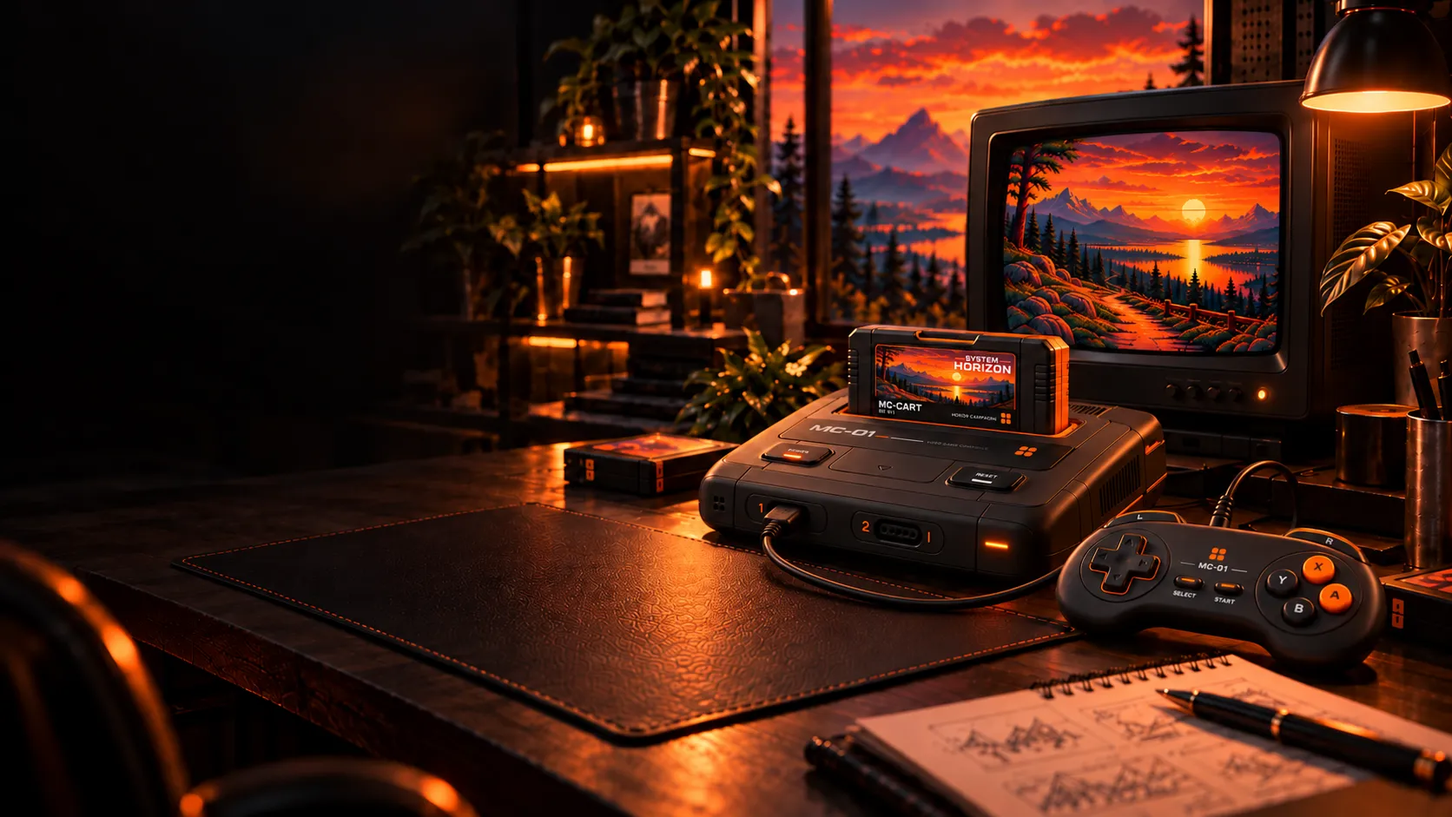
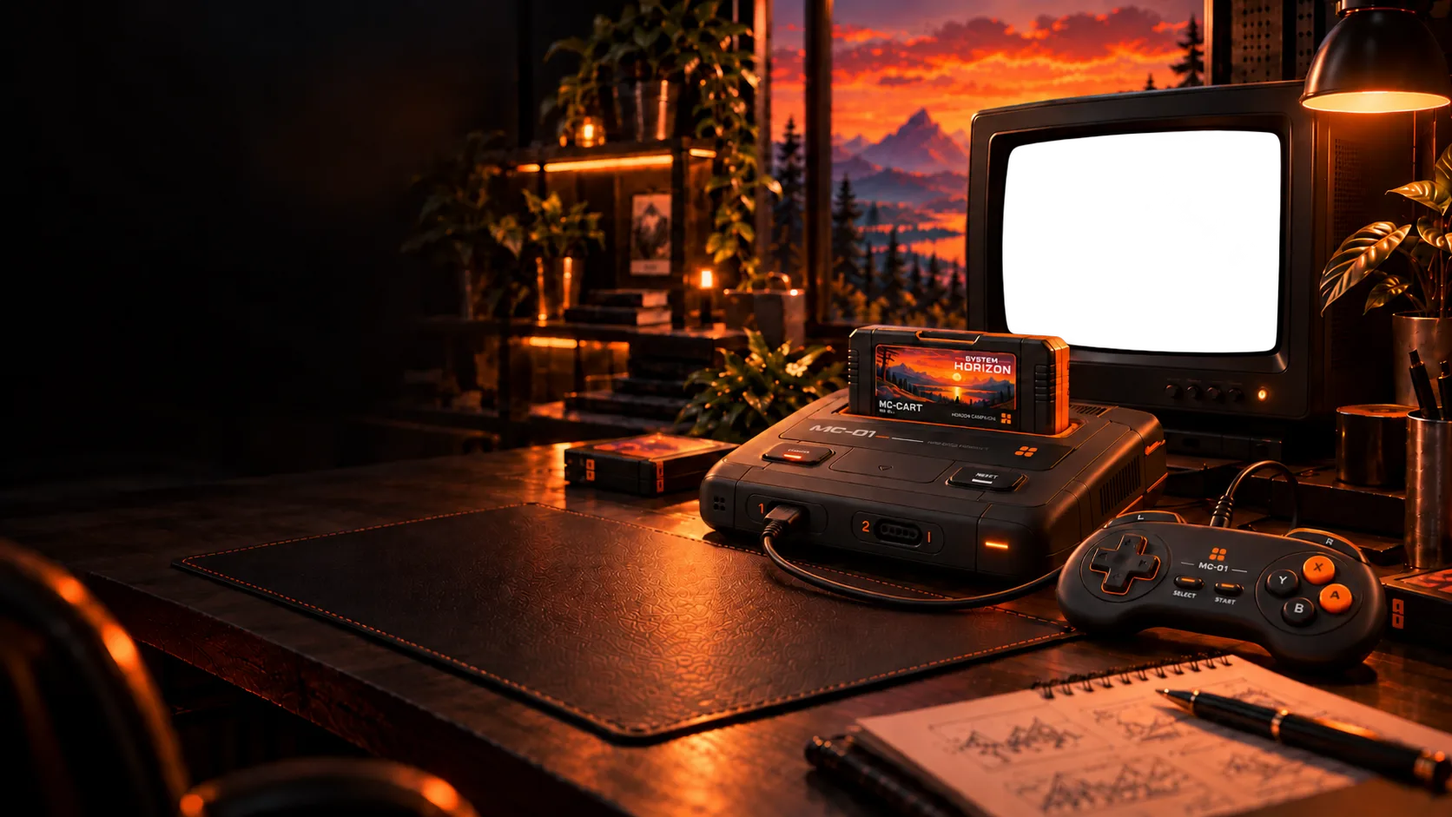
feat(hero,inventory): screens behind a transparent CRT tube (D-080)
- Hero background and the H2 CRT front now have a transparent tube; the
  SYSTEM HORIZON screen (Hero) and the digital glass layer (mc-crt-front)
  sit behind the image, so the real bezel, curvature and cartridge mask
  them. No clip-path, no approximated corner radius.
- Hero screen box: the glass with lateral-only bleed (x 1152-1477,
  y 151-405), keeping the teaser scale and HUD positions unchanged.
- mc-crt-front: digital layer covers the hole + 2 px; the render is on top
  without capturing the pointer.
- Received PNGs had body alpha 240-254; normalized to opaque (edges kept).
  WebP derivatives regenerated (Hero at q 0.82), all the same size or
  smaller. Engine, script and timings of the teaser untouched.
- D-080 in docs/10; docs/21 §9 and contract (§8.2) ask for the tube
  transparent; docs/22, docs/24 and CLAUDE.md in sync.

diff --git a/src/app/features/hero/hero-scene.scss b/src/app/features/hero/hero-scene.scss
@@ -1,5 +1,5 @@
-// Cena da Hero (D-067 + D-068, docs/21 §7, docs/22). Fundo aprovado recortado por faixa e, sobre o
-// vidro do CRT da imagem, a tela do SYSTEM HORIZON. O palco (.stage) tem a proporção da imagem
+// Cena da Hero (D-067 + D-068 + D-080, docs/21 §7–§9, docs/22). Fundo aprovado recortado por faixa
+// e, atrás do tubo transparente do CRT da imagem, a tela do SYSTEM HORIZON. O palco (.stage) tem a proporção da imagem
 // mostrada e é recortado pela moldura como um `object-fit: cover` com `object-position: --pos`;
 // assim a tela usa coordenadas da própria imagem em todas as larguras. As bordas da moldura
 // sempre se dissolvem no fundo da página (nunca um retângulo).
@@ -14,10 +14,10 @@
   // Imagem mostrada: recorte quadrado no mobile (HERO_BACKGROUND.mobile, x 628–1569 da fonte).
   --ar: 1;
   --pos: 50%;
-  // Caixa do vidro do CRT na imagem mostrada (fonte 1672 × 941: x 1157–1473, y 151–405); os
-  // cantos dentro dela (perspectiva da TV) estão em HERO_CRT_GLASS.
-  --sx: 56.22%;
-  --sw: 33.58%;
+  // Caixa da tela na imagem mostrada (fonte 1672 × 941: x 1152–1477, y 151–405; folga só lateral);
+  // os cantos dentro dela (perspectiva da TV) estão em HERO_CRT_GLASS.
+  --sx: 55.69%;
+  --sw: 34.54%;
   // Máscara (local): opaca entre --x1/--x2 e --y1/--y2, dissolvendo até --x0 e as bordas.
   --x0: 0%;
   --x1: 12%;
@@ -30,8 +30,8 @@
     aspect-ratio: 3 / 2;
     --ar: 1672 / 941;
     --pos: 80%;
-    --sx: 69.2%;
-    --sw: 18.9%;
+    --sx: 68.9%;
+    --sw: 19.44%;
   }
 
   // Desktop compacto: ao lado do texto (colunas 7–12), sangrando só à direita.
@@ -79,22 +79,24 @@
   translate: calc(-1 * var(--pos)) 0;
 }
 
+// A imagem fica na frente: o tubo é transparente e o aro, o cartucho e os cantos curvos da foto
+// recortam a tela naturalmente (sem clip-path nem raio).
 img {
+  position: relative;
+  z-index: 1;
   display: block;
   width: 100%;
   height: 100%;
 }
 
-// Tela do SYSTEM HORIZON exatamente sobre o vidro; o cartucho do console cobre o canto inferior
-// esquerdo do vidro na imagem, então a tela é recortada ali.
+// Tela do SYSTEM HORIZON atrás do tubo. Antes do teaser, o tubo mostra o fundo escuro (TV
+// desligada); o teaser entra ligando o CRT.
 .crt {
   position: absolute;
   left: var(--sx);
   top: 16.05%;
   width: var(--sw);
   height: 26.99%;
-  --screen-radius: 4% / 5%;
-  clip-path: polygon(0 0, 100% 0, 100% 100%, 23.4% 100%, 23.4% 90.9%, 0 90.9%);
 }
 
 // Pausar/reproduzir (WCAG 2.2.2): pequeno, no canto inferior do visual, sem competir com os CTAs.

diff --git a/src/app/shared/signature/crt-front/crt-front.ts b/src/app/shared/signature/crt-front/crt-front.ts
@@ -3,14 +3,15 @@ import { ChangeDetectionStrategy, Component, input, output } from '@angular/core
 import { crtVars, MC01_CRT } from '../console/console.geometry';
 
 /**
- * CRT frontal do MC-01 (D-077): o render oficial é a estrutura física; o conteúdo entra por
- * projeção numa camada digital independente, ajustada ao vidro (raio elíptico que acompanha a
- * curvatura). Em `standby` o vidro fica mais escuro (tela em espera, sem competir com o cartucho).
+ * CRT frontal do MC-01 (D-077): o render oficial é a estrutura física; o conteúdo entra numa camada
+ * digital independente ATRÁS do render, visto pelo tubo transparente (D-080): o aro recorta a
+ * curvatura. Em `standby` o vidro fica mais escuro (tela em espera, sem competir com o cartucho).
  * Presentational: quem usa decide semântica, textos e estados; `failed` avisa se o render falhar.
  */
 @Component({
   selector: 'mc-crt-front',
   template: `
+    <div class="glass"><ng-content /></div>
     <img
       class="body"
       [src]="crt.src"
@@ -23,7 +24,6 @@ import { crtVars, MC01_CRT } from '../console/console.geometry';
       decoding="async"
       (error)="failed.emit()"
     />
-    <div class="glass"><ng-content /></div>
   `,
   styleUrl: './crt-front.scss',
   host: { '[style]': 'vars', '[class.is-standby]': 'standby()' },

diff --git a/src/app/features/hero/hero-scene.assets.ts b/src/app/features/hero/hero-scene.assets.ts
@@ -27,13 +27,15 @@ export const HERO_BACKGROUND = {
 };
 
 /**
- * Cantos do vidro do CRT na imagem de fundo, em frações da caixa x 1157–1473, y 151–405 da fonte
- * (posicionada em `hero-scene.scss`). A TV está levemente girada: o lado direito da tela é mais
- * alto (topo 161 → 151, base 400 → 405). A tela do SYSTEM HORIZON é projetada nesses cantos.
+ * Cantos da tela do SYSTEM HORIZON, em frações da caixa x 1152–1477, y 151–405 da fonte
+ * (posicionada em `hero-scene.scss`). O tubo do CRT é transparente na imagem (D-080) e a tela fica
+ * ATRÁS dela. A folga é só lateral (~4,5 px além do vidro), porque a tela 4:3 escala pela altura:
+ * folga vertical ampliaria o teaser e levaria o HUD para baixo do aro. Em cima e embaixo, onde o
+ * tubo é abaulado, sobram até ~3 px de vidro escuro. A TV está levemente girada (lado direito mais alto).
  */
 export const HERO_CRT_GLASS: ScreenQuad = [
-  [0, 0.0394],
+  [0, 0.04],
   [1, 0],
-  [0.9937, 1],
-  [0, 0.9803],
+  [0.994, 1],
+  [0, 0.98],
 ];

diff --git a/src/app/shared/signature/crt-front/crt-front.scss b/src/app/shared/signature/crt-front/crt-front.scss
@@ -1,5 +1,5 @@
-// CRT frontal (D-077). Render físico + camada digital no vidro; efeitos só nas bordas do vidro.
-// `--mc-radius-glass` não se aplica: a curvatura deste vidro é a do render (raio elíptico).
+// CRT frontal (D-077, D-080). Camada digital atrás do render, vista pelo tubo transparente; efeitos
+// só nas bordas do vidro. `--mc-radius-glass` não se aplica: o aro do render recorta a curvatura.
 @use 'mc' as *;
 
 :host {
@@ -9,9 +9,12 @@
 }
 
 .body {
+  position: relative;
+  z-index: 1;
   display: block;
   width: 100%;
   height: auto;
+  pointer-events: none;
 }
 
 .glass {
@@ -25,7 +28,6 @@
   justify-items: center;
   gap: space(3);
   overflow: hidden;
-  border-radius: 6% / 8%;
   container-type: inline-size;
   background: var(--mc-bg);
   transition: background-color 300ms ease-out;
@@ -35,7 +37,6 @@
     content: '';
     position: absolute;
     inset: 0;
-    border-radius: inherit;
     box-shadow: inset 0 0 6cqw var(--mc-material-groove);
     pointer-events: none;
   }

diff --git a/src/app/shared/signature/console/console.geometry.ts b/src/app/shared/signature/console/console.geometry.ts
@@ -35,13 +35,16 @@ export const MC01_CONSOLE = {
 
 export type McConsolePose = keyof typeof MC01_CONSOLE.poses;
 
-/** Vidro do CRT frontal (recorte de 1108 × 1013): área da camada digital. */
+/**
+ * Vidro do CRT frontal (recorte de 1108 × 1013): área da camada digital, ATRÁS do render. O tubo é
+ * transparente no render (D-080); a camada cobre o furo inteiro + 2 px e o aro esconde a sobra.
+ */
 export const MC01_CRT = {
   src: `${A}crt-front-1108.webp`,
   srcset: `${A}crt-front-560.webp 560w, ${A}crt-front-800.webp 800w, ${A}crt-front-1108.webp 1108w`,
   width: 1108,
   height: 1013,
-  glass: { left: 121, top: 120, width: 862, height: 656 },
+  glass: { left: 118, top: 117, width: 868, height: 662 },
 } as const;
 
 const pct = (value: number, total: number) => `${(value / total) * 100}%`;

diff --git a/CLAUDE.md b/CLAUDE.md
@@ -100,7 +100,7 @@ Mantenha os docs em sincronia com o código. Ao concluir itens do roadmap, atual
 - `src/app/data/`: conteúdo estático tipado (skills, tags, projetos, perfil, links sociais), com textos humanos em `Localized<T>` (ver `docs/07`).
 - i18n (D-020): `src/app/core/i18n/`. **A URL é a fonte da verdade** (`/` pt-BR, `/en` en); trocar idioma = navegar. Componentes usam `inject(LocaleService).ui` (dicionário tipado) e `pick()` para conteúdo `Localized`. Todo texto novo entra em `ui.pt-BR.ts` **e** `ui.en.ts`. Sem bibliotecas de i18n; sem localStorage sobrepondo a URL.
 - `src/app/shared/ui/`: primitivos do design system: `mc-icon` (16/20/24; sem `label` = decorativo), `a[mcAction]`/`button[mcAction]` (`primary` no máximo 1 por região, `secondary`, `text`; navegação = `<a>`, ação = `<button>`), `mc-chip` (warm/cool, informativo), `mc-status` (active/in-progress, sempre com texto), `mc-section-header`. Reusar antes de criar.
-- `src/app/shared/signature/`: componentes autorais: `mc-player-card` (UI digital, único com cantos de mira, sem métricas inventadas), `mc-cart` (objeto físico, shells dark/light/orange/cool, `role="img"`, não clicável no componente; o Inventory usa clique como atalho de ponteiro do botão "Inserir cartucho", D-058), `mc-project-summary` (nome, descrição, até 2 chips), `mc-crt-frame` (base visual do CRT, presentational, sem contexto nem textos) e `mc-crt-project-viewer` (frame + região rotulada + "INSERT CARTRIDGE"; efeitos atrás do conteúdo, nunca corta; fora do Inventory desde D-077), `mc-console` (MC-01 em três camadas oficiais, geometria do console em `console.geometry.ts`, só transform) e `mc-crt-front` (CRT frontal com camada digital no vidro). Objetos físicos usam tokens `--mc-material-*` e `--mc-shadow-object`; UI digital não. Três níveis de token: primitive → semantic UI → physical material; **material tokens não criam uma segunda paleta**. `--mc-radius-glass` só no vidro do CRT.
+- `src/app/shared/signature/`: componentes autorais: `mc-player-card` (UI digital, único com cantos de mira, sem métricas inventadas), `mc-cart` (objeto físico, shells dark/light/orange/cool, `role="img"`, não clicável no componente; o Inventory usa clique como atalho de ponteiro do botão "Inserir cartucho", D-058), `mc-project-summary` (nome, descrição, até 2 chips), `mc-crt-frame` (base visual do CRT, presentational, sem contexto nem textos) e `mc-crt-project-viewer` (frame + região rotulada + "INSERT CARTRIDGE"; efeitos atrás do conteúdo, nunca corta; fora do Inventory desde D-077), `mc-console` (MC-01 em três camadas oficiais, geometria do console em `console.geometry.ts`, só transform) e `mc-crt-front` (CRT frontal com tubo transparente e camada digital atrás do render, D-080). Objetos físicos usam tokens `--mc-material-*` e `--mc-shadow-object`; UI digital não. Três níveis de token: primitive → semantic UI → physical material; **material tokens não criam uma segunda paleta**. `--mc-radius-glass` só no vidro do CRT.
 - CSS: orçamento de estilo por componente → enxugar antes de aumentar (D-035). Abreviações utilizadas para otimização de CSS/SCSS devem permanecer locais ao componente e documentadas. Elas não devem reduzir a clareza de APIs públicas, tokens do Design System ou contratos compartilhados.
 - Showcase dev-only: `npm start` → `/dev/design-system` (D-028). Nunca registrar rotas de dev em produção.
 - `src/app/core/`: infraestrutura transversal (boot, konami listener). `src/app/shared/`: componentes reutilizáveis (só criar quando um elemento se repetir).
@@ -126,7 +126,7 @@ Deploy: `.github/workflows/deploy-pages.yml`, **disparo manual** (`workflow_disp
 - FASE 0 ✅ · FASE 1 ✅ (Concept 03 híbrido).
 - FASE 2 ✅: MC Design System Core (D-030) e **Sprint 4 — Signature Components: APPROVED** (D-036).
 - **FASE 3 — Core Experience: encerrada (D-048).** Itens de interação (CRT Viewer na Home, seleção/inserção de cartucho, transição para o CRT, motion) foram para a FASE 5. **Modo autônomo (D-053):** BUILDER + REVIEWER independente por etapa, branch `feat/autonomous-site-completion`, sem merge em `main` e sem deploy até a revisão final do Eduardo. **Home Slice 05 — Final Checkpoint: APPROVED** (D-052, D-054, `docs/17-home-slice-05.md`): Save Point Editorial (SAVE COMPLETE, frase em `PlayerProfile.closing`, GitHub/LinkedIn secondary) + footer da Home (`core/layout/site-footer/`, renderizado pela `HomePage` fora do `<main>`, não no shell); ambos FROZEN. **Home Slice 06 — Current Main Quest** (D-055, `docs/18-home-slice-06.md`): Quest Briefing com `mc-status` IN PROGRESS; conteúdo **MOCK** (`current-quest.data.development.ts`, id `mock-current-quest`, "Campanha de exemplo"), produção `null` e seção não renderizada; **o MOCK não é fato sobre o Eduardo nem descreve a Comunidade On**; 06-C editorial pendente. **Home Slice 07 — Side Quests** (D-056, `docs/19-home-slice-07.md`): Side Quest Log; conteúdo **MOCK** (`side-quests.data.development.ts`, ids `mock-side-quest-*`), produção vazia; **o MOCK não é fato sobre o Eduardo**; Paco (MC-002) segue fora do runtime; 07-C editorial pendente. **Estado em 2026-10-11 (D-062):** rodada autônoma concluída na branch `feat/autonomous-site-completion` (sem merge/deploy); FASES 4 (estrutura), 5 e 8 concluídas; pendências = conteúdo real, FASE 6, Progress, prerender, monograma e publicação, todas do Eduardo. **Fase de referência: FASE 4 — Career Content. Histórico do Slice 03 — Campaign Log** (`docs/15-home-slice-03.md`, D-048): plano e direção **A + C (Checkpoint Log Editorial)** aprovados; `CampaignLogKind = origin | checkpoint | current` (rótulos NEW GAME / CHECKPOINT / CAMPANHA ATUAL vêm da UI); **03-B — Campaign Log visual APPROVED e congelado (D-050)**; estado: STRUCTURE / VISUAL approved · **EDITORIAL CONTENT pending factual review** (03-C, não bloqueia o resto da Home). Summary ideal ~120–140 caracteres (regra editorial, sem line-clamp); entrada current em aberto exibe DESDE / SINCE. **Conteúdo real canônico (D-074):** CHAPTER 00 — ORIGIN (c. 1991, D-070), CHAPTER 01 — DO CONTROLE AO CÓDIGO (FATEC Americana, 2013–2017, D-071) e CHAPTER 02 — DO CÓDIGO AO PRODUTO (2018–atual: ScoutEvo 2018, EOS 2019, Axia c. 2020/2021, Comunidade ON desde 2025; em aberto com CURRENT QUEST — EM ANDAMENTO + lema; D-072/D-073), aprovados pelo Eduardo; `CAMPAIGN_LOG_CHAPTERS` (`campaign-log.data.ts`) é a mesma fonte em todos os ambientes, sem `fileReplacements` nem `isDevMode()`; a linha profissional MOCK (D-049) e o modelo `CampaignLogEntry` foram **aposentados**; `docs/15` §13–§17; nenhuma data inferida; grafia pública "Comunidade ON"; Jornada no header ainda pendente. **Home Slice 04 — Achievements** (`docs/16-home-slice-04.md`, D-051): plano e direção **A + B (Achievement Record Panel)** aprovados; 04-A com **MOCK** (`achievements.data.development.ts`, ids `mock-achievement-*`); **04-B visual APPROVED e FROZEN** (inclui 2 itens em 8/12 no xl); 04-C editorial pendente; produção vazia; seção só com **≥ 2** achievements (`achievements.rules.ts`); `evidence` obrigatório; nunca repetir outras seções para completar itens; Comunidade On não é achievement. **O MOCK não é fato sobre o Eduardo.** Commits locais até a revisão. Histórico: Home Slice 01 (`docs/12-home-slice-01.md`, D-037): **HOME SLICE 01 — APPROVED** (D-039). **Não modificar Header, Hero ou Player Status aprovados sem regressão justificada e relatada.** Slice 02 (**Skill Loadout** + Project Inventory, D-040): plano aprovado (`docs/13-home-slice-02.md`), 02-0 aprovado (D-041, D-042, `docs/14`); 02-A concluído (`SKILL_LOADOUT`, só skills aprovadas); **02-B Skill Loadout APPROVED e congelado** (`features/skill-loadout/`, D-043; não alterar salvo regressão); **02-C APPROVED** (`Project`, `TAGS`, `publishedProjects`/`inventoryProjects`, `features/project-inventory/`, D-044; runtime só com projetos aprovados); **02-C.5 APPROVED** (artwork System Horizon Refined do MC-001, D-045/D-046; **evoluído em D-065**: MC-001 oficial = renders `front` (Inventory) e `threeQuarter` (product shot) + artwork SYSTEM HORIZON em `public/assets/cartridges/mc-001/`, shell grafite com acentos laranja, fontes PNG em `design/source/mc-cart/`; o glifo de quatro quadrados é *system/hardware glyph*, não logo; arte decorativa dentro do MC-CART, alt guardado no modelo; artworks seguem a gramática de família, não um template); **Project Inventory = H2, Physical Cartridge Experience** (D-075–D-078, `docs/24` §17; **APPROVED / consolidado**, sem deploy): o MC-CART é inserido no MC-01 em camadas (`mc-console`, só transform) e o CRT frontal (`mc-crt-front`) mostra a arte oficial e o teaser sob demanda; case fora do vidro; estado de domínio único em `inventory.machine.ts`; MC-001 = SYSTEM HORIZON (Modo Campanha é o portfólio); a carcaça do encaixe físico (`renders.console`) é a referência oficial do MC-001 na experiência interativa e a interface pública nunca mostra duas identidades do cartucho (D-078; `front`/`threeQuarter` ficam como referência); tipo EXPERIÊNCIA NARRATIVA; MC-01 canônico do Inventory = console frontal do H2 (Hero: harmonização pendente); a grade + case no CRT da FASE 5 (D-058, `docs/20-game-feel-01.md`) foi substituída. Boot / Intro na tela do CRT do Hero (D-059) removido em D-067 e **retomado no teaser SYSTEM HORIZON (D-068)**; strings `ui.boot` removidas. **FASE 5 concluída** (Progress sem definição, decisão do Eduardo). **FASE 8 (D-060):** skip link no shell, `scroll-padding-top` com a altura real do header (`--mc-header-block`), SEO bilíngue no `LocaleService` (hreflang, canonical, Open Graph), `robots.txt`; prerender pendente de decisão. **FASE 6 (Secrets) bloqueada por decisão do Eduardo** (efeitos exigem aprovação, `docs/08`). 02-D e 02-E absorvidos; **02-F APPROVED: HOME SLICE 02 — APPROVED** (D-047). Skill Loadout, Project Inventory, MC-001 e artwork congelados. **A Home só renderiza seções construídas** (produção: Hero, Player Status, Skill Loadout, Project Inventory, Campaign Log, Final Checkpoint + footer); as demais entram com seus slices, sem placeholder público; seções com MOCK só em dev. **Nav só com destinos existentes** (Sobre / Projetos / Contato → `#final-checkpoint`; Jornada → `#campaign-log` pendente: o conteúdo real já está publicado, D-074); no mobile (< 768 px) a nav é a segunda linha do header (D-057). **FASE 4: estrutura concluída (D-057)**; conteúdo editorial pendente (04-C, 06-C, 07-C; 03-C aprovado, D-074). GitHub Pages: sem deploy até decisão separada; próximo Slice só com autorização. Não implementar antes da aprovação do conteúdo. Projeto só renderiza com `publication: 'approved'` explícito; skill só com `status: 'approved'`; serial global `MC-NNN` (origem é campo separado); nenhum aprovador interno presumido; nada interno da Comunidade On publicado. **Repositório público:** nunca colocar no runtime ou em docs nomes de aprovadores, fluxos internos ou dados de revisão (D-042). Tags: catálogo com tone fixo por tag. "PROJECT ARTWORK" nunca no Inventory público (checkpoint 02-C.5). Player Status: STATUS só no Player Card, nunca no Section Header (D-039); sem "Sobre a jornada" até haver texto aprovado. Âncoras: offset do header no `ViewportScroller` (`app.config.ts`).
-- Conteúdo humano em `src/app/data/profile.data.ts` (`PlayerProfile`, `Localized`); o dicionário de UI guarda só rótulos. Header em `src/app/core/layout/site-header/`; Hero em `src/app/features/hero/` (fundo: a imagem aprovada do setup MC-01 usada direto num `<picture>` decorativo, com recorte próprio no mobile; config em `hero-scene.assets.ts`; sem cena montada; D-067, `docs/21` §7; **provisória** até a nova arte externa, D-079: contrato em `docs/21` §8.2, não substituir antes da arte, nunca gerar imagens nem recompor os PNGs oficiais sobre a foto; Pixelify Sans com preload no `index.html`, fontes sem hash via `outputHashing: "bundles"`). Cena em `hero-scene`: sobre o vidro do CRT da imagem roda o **attract mode do SYSTEM HORIZON** (D-068, `docs/22`), **base técnica APPROVED / FROZEN** (engine, roteiro, timings, pause/play, 3 voltas, reduced motion, responsivo, arquitetura: não alterar sem regressão objetiva); **cenário final integrado** (4 camadas, paleta única de 16 cores, `sh-palette.gpl`); personagem **provisório** (quadros aprovados reduzidos 2:1, quadro 16 × 24, `docs/22` §13; versão definitiva pendente); pickups, HUD e MC-CART em pixel art gerada no repositório (`design/source/system-horizon/pixel/build-pickups.mjs`, `docs/22` §14); tudo aguardando validação conjunta do Eduardo; arte nova sempre se adapta ao contrato de `docs/22` §4 (mesmas dimensões, pivots e layout; validar cenário + personagem antes de pickups e MC-CART, §11); System Horizon jogável fora de escopo; engine em `src/app/system-horizon/` (TypeScript puro: engine/world/scenes/control/content); textos de sistema em inglês nos dois idiomas via `ui.systemHorizon`; pausa discreta + parada após 3 voltas; reduced motion/pausado = quadro-chave.
+- Conteúdo humano em `src/app/data/profile.data.ts` (`PlayerProfile`, `Localized`); o dicionário de UI guarda só rótulos. Header em `src/app/core/layout/site-header/`; Hero em `src/app/features/hero/` (fundo: a imagem aprovada do setup MC-01 usada direto num `<picture>` decorativo, com recorte próprio no mobile; config em `hero-scene.assets.ts`; sem cena montada; D-067, `docs/21` §7; **provisória** até a nova arte externa; tubo do CRT transparente com o teaser atrás da imagem, folga só lateral, sem clip-path, D-080; D-079: contrato em `docs/21` §8.2, não substituir antes da arte, nunca gerar imagens nem recompor os PNGs oficiais sobre a foto; Pixelify Sans com preload no `index.html`, fontes sem hash via `outputHashing: "bundles"`). Cena em `hero-scene`: sobre o vidro do CRT da imagem roda o **attract mode do SYSTEM HORIZON** (D-068, `docs/22`), **base técnica APPROVED / FROZEN** (engine, roteiro, timings, pause/play, 3 voltas, reduced motion, responsivo, arquitetura: não alterar sem regressão objetiva); **cenário final integrado** (4 camadas, paleta única de 16 cores, `sh-palette.gpl`); personagem **provisório** (quadros aprovados reduzidos 2:1, quadro 16 × 24, `docs/22` §13; versão definitiva pendente); pickups, HUD e MC-CART em pixel art gerada no repositório (`design/source/system-horizon/pixel/build-pickups.mjs`, `docs/22` §14); tudo aguardando validação conjunta do Eduardo; arte nova sempre se adapta ao contrato de `docs/22` §4 (mesmas dimensões, pivots e layout; validar cenário + personagem antes de pickups e MC-CART, §11); System Horizon jogável fora de escopo; engine em `src/app/system-horizon/` (TypeScript puro: engine/world/scenes/control/content); textos de sistema em inglês nos dois idiomas via `ui.systemHorizon`; pausa discreta + parada após 3 voltas; reduced motion/pausado = quadro-chave.
 - Fases: 0 Foundation · 1 Visual Concept · 2 Design System · 3 Core Experience · 4 Career Content · 5 Game Feel · 6 Secrets · 7 Content · 8 Quality · 9 Release. Detalhes em `docs/09-roadmap.md`.
 
 ## Fluxo de trabalho

diff --git a/docs/21-hero-refinement.md b/docs/21-hero-refinement.md
@@ -232,9 +232,10 @@ Zonas:
 - **Modelo:** o CRT do H2 (`crt-front.png`) em perspectiva. Sem outro modelo de TV, sem grade de ventilação lateral e sem botões diferentes.
 - **Vidro, posição:** de preferência **exatamente** na caixa x 1157–1473 · y 151–405 (316 × 254, ~1,24 : 1), com os cantos de `HERO_CRT_GLASS` e tolerância de ±2 px no 1× (±4 px no 2×).
 - **Vidro, se a identidade pedir outra proporção:** a tela do `crt-front` é mais larga (~1,33–1,38 : 1) e tem cantos mais arredondados. A proporção do vidro **na foto** pode ficar entre 1,24 e **1,333 (4 : 3)**, com o remedimento de K. Acima de 4 : 3, a tela do teaser (4 : 3, cobrindo pela altura) deixa faixas da foto nas laterais. Cobrir pela largura cortaria o HUD (y 4–18, `docs/22` §4.0) e mudaria o teaser congelado. Com o leve giro, a tela oficial fica dentro desse limite.
-- **Nada na frente do vidro:** o topo do MC-CART fica abaixo da borda inferior do vidro. Hoje o cartucho cobre x 1157–1232 · y ≈ 382–405 (o `clip-path` recorta em 90,9% da altura), o que obriga um recorte na tela do teaser.
-- **Conteúdo da tela:** o cenário do SYSTEM HORIZON (pôr do sol, montanhas, lago, trilha), em pixel art e sem texto, HUD ou personagem. Ele aparece antes de o teaser carregar e quando o teaser falha.
-- **Reflexos:** o teaser cobre o vidro inteiro, então reflexos e brilho ficam no aro e no gabinete, nunca dentro do vidro.
+- **Tubo transparente (D-080, §9):** o mestre vem com o vidro **transparente** (alfa 0 dentro do tubo, borda suavizada de 1–2 px e alfa 255 em todo o resto, nunca 240–254). A tela do teaser fica atrás da imagem, e o aro recorta a curvatura.
+- **Na frente do vidro:** o cartucho pode cobrir o canto inferior esquerdo, como hoje (x 1157–1232 · y ≈ 382–405): a imagem recorta a tela sozinha. Não cobrir o topo (HUD, y 4–18 nativo) nem o centro.
+- **Conteúdo da tela:** como o tubo é transparente, a tela da foto não aparece no site; antes do teaser, o tubo mostra a TV desligada. Uma versão opaca, com o cenário do SYSTEM HORIZON na tela (pôr do sol, montanhas, lago, trilha, sem texto, HUD ou personagem), é opcional e serve de referência.
+- **Reflexos:** ficam no aro e no gabinete, nunca dentro do vidro (que é transparente).
 
 #### H. Identidade oficial: textos permitidos
 
@@ -269,18 +270,17 @@ Textos pequenos demais para ler no tamanho final podem virar marcas lisas, nunca
 
 #### K. Coordenadas que dependem da imagem
 
-Se o vidro ficar na caixa atual, dentro da tolerância de G, **nada é remedido**: só os quatro cantos são conferidos. Se mudar, estes valores precisam ser remedidos (fonte W × H = 1672 × 941; vidro de x0 a x1 e de y0 a y1):
+Se o vidro ficar na caixa atual, dentro da tolerância de G, **nada é remedido**: só os quatro cantos e o furo são conferidos. Se mudar, estes valores precisam ser remedidos (fonte W × H = 1672 × 941; vidro de x0 a x1 e de y0 a y1). Desde D-080 (§9), a caixa da tela é o vidro com **folga só lateral**, até cobrir o furo: x0 e x1 recuam ~4,5 px, y0 e y1 ficam no vidro. Uma folga vertical ampliaria o teaser e levaria o HUD para baixo do aro.
 
-| Valor                                               | Onde                     | Fórmula                                                                                                   |
-| --------------------------------------------------- | ------------------------ | --------------------------------------------------------------------------------------------------------- |
-| `HERO_CRT_GLASS` (4 cantos) e o comentário da caixa | `hero-scene.assets.ts`   | cantos do vidro em frações da caixa (x0–x1, y0–y1)                                                        |
-| `top` / `height` da `.crt`                          | `hero-scene.scss`        | y0 / H · (y1 − y0) / H (hoje 16,05% / 26,99%)                                                             |
-| `--sx` / `--sw` (≥ 768)                             | `hero-scene.scss`        | x0 / W · (x1 − x0) / W (hoje 69,2% / 18,9%)                                                               |
-| `--sx` / `--sw` (mobile)                            | `hero-scene.scss`        | (x0 − m0) / (m1 − m0) · (x1 − x0) / (m1 − m0), recorte mobile de m0 a m1 (hoje 628–1569: 56,22% / 33,58%) |
-| `clip-path` da `.crt`                               | `hero-scene.scss`        | área do vidro coberta pelo cartucho; sem sobreposição, o recorte sai                                      |
-| `--screen-radius`                                   | `hero-scene.scss`        | raio dos cantos do vidro em % da caixa (hoje 4% / 5%)                                                     |
-| Área segura do teaser                               | `docs/22` §4.0           | proporção do vidro (1,24 a 1,333): em 1,24 : 1 cortam-se ~6 px de cada lado; em 4 : 3, nada               |
-| Recorte mobile                                      | `HERO_BACKGROUND.mobile` | x do quadrado que contém MC-01, vidro e controle                                                          |
+| Valor                                               | Onde                     | Fórmula                                                                                                      |
+| --------------------------------------------------- | ------------------------ | ------------------------------------------------------------------------------------------------------------ |
+| `HERO_CRT_GLASS` (4 cantos) e o comentário da caixa | `hero-scene.assets.ts`   | cantos do vidro em frações da caixa (x0–x1, y0–y1)                                                           |
+| `top` / `height` da `.crt`                          | `hero-scene.scss`        | y0 / H · (y1 − y0) / H (hoje 16,05% / 26,99%, vidro y 151–405)                                               |
+| `--sx` / `--sw` (≥ 768)                             | `hero-scene.scss`        | x0 / W · (x1 − x0) / W (hoje 68,9% / 19,44%, caixa x 1152–1477)                                              |
+| `--sx` / `--sw` (mobile)                            | `hero-scene.scss`        | (x0 − m0) / (m1 − m0) · (x1 − x0) / (m1 − m0), recorte mobile de m0 a m1 (hoje 628–1569: 55,69% / 34,54%)    |
+| Furo coberto                                        | medição do alfa (< 128)  | nenhum pixel do furo fora da caixa nas laterais; em cima e embaixo, sobra de ≤ 3 px aceitável (vidro escuro) |
+| Área segura do teaser                               | `docs/22` §4.0           | proporção do vidro (1,24 a 1,333): em 1,24 : 1 cortam-se ~6 px de cada lado; em 4 : 3, nada                  |
+| Recorte mobile                                      | `HERO_BACKGROUND.mobile` | x do quadrado que contém MC-01, vidro e controle                                                             |
 
 A engine, o roteiro, os timings e a câmera do teaser não mudam em nenhum caso.
 
@@ -323,7 +323,7 @@ Gerados a partir do mestre:
 >
 > Real-world scale: the CRT cabinet is about 1.27× the console width; the cartridge is about 0.56× the console width.
 >
-> **CRT and screen.** The CRT is nearly frontal. It is the official model only: no side ventilation grille, no other knobs. Its glass sits at x 2314–2946, y 302–810, with the right side slightly taller (about 6%), and its aspect ratio stays between 1.24:1 and 4:3. Nothing overlaps it: the top of the cartridge stays below the bottom edge of the glass. Keep reflections and glow on the bezel and cabinet, not inside the glass. The screen shows the SYSTEM HORIZON pixel-art sunset landscape (lake, mountains, trail) with no text.
+> **CRT and screen.** The CRT is nearly frontal. It is the official model only: no side ventilation grille, no other knobs. Its glass sits at x 2314–2946, y 302–810, with the right side slightly taller (about 6%), and its aspect ratio stays between 1.24:1 and 4:3. Deliver the glass (the whole tube) fully transparent: alpha 0 inside the tube, a 1–2 px antialiased edge, and alpha 255 everywhere else (not 240–254). The cartridge may overlap the lower-left corner of the glass; nothing may cover its top or center. Keep reflections and glow on the bezel and cabinet, not inside the glass. Optionally, also deliver an opaque version whose screen shows the SYSTEM HORIZON pixel-art sunset landscape (lake, mountains, trail) with no text.
 >
 > **Light and materials.** Warm sunset and lamp light, orange rim light, matte graphite plastic, deep shadows. Orange POWER LED and white RESET LED on the console. No neon.
 >
@@ -337,3 +337,24 @@ Gerados a partir do mestre:
 > - Controller: MC-01, SELECT, START, L, R, X, Y, A, B.
 >
 > **Exclude.** Any other text or pseudo-text, other cartridges or boxes, brand logos or real console designs, people, a keyboard or mouse, watermarks.
+
+## 9. Tubo transparente: telas atrás da imagem (D-080)
+
+A pedido do Eduardo, o tubo do CRT ficou **transparente** nas imagens, e as telas digitais passaram para **trás** delas. O aro, a curvatura e o cartucho da foto recortam a tela naturalmente. Com isso, não há mais `clip-path` para o cartucho nem raio aproximado nos cantos.
+
+- **Hero:** `design/source/hero/hero-background.png` é a mesma foto aprovada (provisória, §8), agora com o tubo transparente. O furo cobre x 1154–1474 · y 150–405.
+  - Tela do SYSTEM HORIZON na caixa x 1152–1477 · y 151–405, com o quadrilátero da TV (`HERO_CRT_GLASS`). A folga é só lateral: a tela 4:3 escala pela altura, então uma folga vertical ampliaria o teaser e levaria o HUD para baixo do aro (testado e descartado).
+  - Em cima e embaixo, onde o tubo é abaulado, sobram até ~3 px de vidro escuro, lidos como a borda escura do tubo.
+  - Antes do teaser (~1 s depois do `load`), o tubo mostra a **TV desligada**, e o teaser entra ligando o CRT. Antes, a tela da foto mostrava a arte. Se o teaser falhar, a TV fica desligada.
+- **Project Inventory (`mc-crt-front`):** `design/source/mc-01/crt-front.png` é um render novo do mesmo CRT do H2, com o tubo transparente. A identidade é a mesma (glifo, rótulos, LED); o aro laranja ficou mais forte, e os reflexos quentes do vidro saíram junto com o tubo.
+  - A camada digital (arte, teaser, carregamento, falha) fica atrás do render, cobrindo o furo + 2 px (118, 117, 868 × 662 no recorte de 1108 × 1013). O render não captura o ponteiro.
+  - Sem o raio 6% / 8%. No **standby**, o vidro agora é preto liso (antes, cinza com os reflexos do render).
+- **Alfa:** os PNGs recebidos tinham o corpo com alfa 240–254 (a foto inteira 1–4% transparente). Foi normalizado com `alfa' = min(255, alfa × 255 / 240)`: corpo opaco, bordas suaves do tubo e da silhueta preservadas, RGB intacto.
+- **Derivados:**
+  - Hero: WebP com alfa, qualidade 0,82 (antes 0,86, para compensar o canal alfa), em `background-{640,960,1280,1672}` = 32 / 58 / 87 / 128 KB e `background-mobile-{480,800}` = 39 / 78 KB, todos menores que antes.
+  - CRT: `crt-front-{560,800,1108}` = 30 / 57 / 103 KB.
+- **Medições:**
+  - Lighthouse inalterado: mobile 82, desktop 99, LCP 4045 / 900 ms, acessibilidade 100, CLS 0 / 0,0003.
+  - Testes e builds passam.
+  - HUD, legendas e quadro-chave nas mesmas posições.
+- **Próxima arte:** o contrato (§8.2 G, K e N) pede o mestre já com o tubo transparente.

diff --git a/docs/24-project-inventory-experience.md b/docs/24-project-inventory-experience.md
@@ -212,7 +212,7 @@ Testes com entrada real (Tab, Enter, Space, clique e toque), reduced motion emul
 - **Ocultação:** a borda superior da frente (y = 434) é opaca em toda a largura do slot (alfa 253–254). A frente esconde de verdade a base do cartucho: 66 px quando encaixado. Não foi preciso `clip-path` nem `mask-image`.
 - **Conferência:** o console montado, com o cartucho encaixado e renderizado a 1254 px, comparado à referência dá diferença média de 2 a 5 níveis (de 255) por região, efeito da compressão WebP. Visualmente idêntico (`scratchpad/inventory/h2/h2-assembly-seated-1254.png`).
 - **Halos:** 0,8 a 1,4% dos pixels são semitransparentes, só nas bordas. Nenhum halo visível sobre o fundo escuro.
-- **CRT:** o vidro está em (121, 120, 862 × 656) no recorte, ≈ 4:3. A camada digital (arte, teaser, carregamento, fallback) fica num elemento próprio sobre o vidro, com raio elíptico (6% / 8%) que acompanha a curvatura do render.
+- **CRT:** o vidro está em (121, 120, 862 × 656) no recorte, ≈ 4:3. A camada digital (arte, teaser, carregamento, fallback) fica num elemento próprio sobre o vidro, com raio elíptico (6% / 8%) que acompanha a curvatura do render. **Atualizado em D-080:** o render tem o tubo transparente; a camada fica **atrás** dele, cobrindo o furo + 2 px (118, 117, 868 × 662), sem raio. O aro recorta a curvatura.
 
 ### 16.2 Sistema de camadas (reutilizável)
 
@@ -336,7 +336,7 @@ Testes com entrada real (Tab, Enter, Space, clique e toque), reduced motion emul
 | Inventory         | `features/project-inventory/project-inventory-section.*` | Compõe editorial, `mc-console`, `mc-crt-front`, controles e case; agenda as transições (620 / 450 / 600 ms); foco, rolagem e anúncios.                                      |
 | Case              | `features/project-inventory/project-case.*`              | Fora do vidro: minha contribuição, stack, aprendizados, evidências.                                                                                                         |
 | MC-01 físico      | `shared/signature/console/`                              | Três camadas oficiais com geometria do console (`console.geometry.ts`); só `transform`. Decorativo; avisa falha de camada.                                                  |
-| CRT frontal       | `shared/signature/crt-front/`                            | Render + camada digital no vidro; `standby` escurece o vidro. Avisa falha.                                                                                                  |
+| CRT frontal       | `shared/signature/crt-front/`                            | Render na frente (tubo transparente, D-080) + camada digital atrás; `standby` = vidro escuro. Avisa falha.                                                                  |
 | Projetos          | `INVENTORY_PROJECTS`                                     | Produção: `inventoryProjects`. Laboratório e testes: fixtures isoladas.                                                                                                     |
 
 ### 17.2 Estados (um único estado decide tudo)

diff --git a/docs/10-decisions.md b/docs/10-decisions.md
@@ -961,3 +961,24 @@ Status possíveis: `Aceita` · `Proposta` · `Substituída` · `Rejeitada`
 
   O resíduo leve das scanlines perto de 3 px por faixa fica registrado em §8.1. O botão de pausa ainda pode anunciar "Pausar" ~0,9 s antes do movimento em rede lenta, enquanto o chunk e a arte carregam; a correção completa exigiria um sinal de "pronto" da tela do teaser congelado.
 - **Status:** etapas 1 e 2 concluídas na branch `feat/hero-refinement`. A substituição da imagem aguarda a nova arte do Eduardo. Sem merge e sem deploy.
+
+## D-080 — Tubo transparente: telas atrás da imagem (Hero e CRT do Inventory)
+
+- **Data:** 2026-10-18
+- **Pedido do Eduardo:** usar imagens com o tubo do CRT transparente (Hero e CRT do H2) e colocar as telas digitais atrás delas, para acabar com os ajustes de recorte nos cantos e no cartucho.
+- **Decisão:** a imagem fica na frente (`z-index`, sem capturar o ponteiro) e a tela digital atrás, vista pelo tubo.
+  - **Hero:**
+    - teaser na caixa do vidro com folga só lateral (x 1152–1477 · y 151–405), o que não mexe na escala do teaser nem no HUD;
+    - sem `clip-path` e sem `--screen-radius`;
+    - antes do teaser, a TV aparece desligada.
+  - **`mc-crt-front`:**
+    - camada digital atrás do render, cobrindo o furo + 2 px;
+    - sem o raio elíptico;
+    - standby em vidro preto liso.
+  - **Engine, roteiro e timings do teaser intactos.** Estados, transições e textos do Inventory também.
+- **Assets:** os mockups do Eduardo substituem `design/source/hero/hero-background.png` (mesma foto, provisória) e `design/source/mc-01/crt-front.png` (render novo do mesmo CRT). O alfa foi normalizado: o corpo tinha 240–254. Os derivados WebP foram regerados, todos do mesmo tamanho ou menores.
+- **Alternativas:**
+  - Folga em todas as bordas: rejeitada, porque ampliava o teaser em 3–5% e escondia "PLAYER 01" e o último slot do HUD sob o aro.
+  - Manter a tela por cima com `clip-path` e raio aproximado: era o problema a resolver.
+- **Contrato da nova imagem (D-079):** o mestre já vem com o tubo transparente (`docs/21` §8.2 e §9).
+- **Status:** implementado na branch `feat/hero-refinement`, aguardando revisão visual do Eduardo. Sem merge e sem deploy.

diff --git a/docs/22-system-horizon-teaser.md b/docs/22-system-horizon-teaser.md
@@ -193,7 +193,7 @@ src/app/system-horizon/
 
 - `features/hero/hero-scene.*`: fundo aprovado (D-067) + tela do SYSTEM HORIZON + controle de pausa. O layout, os textos, os CTAs e a imagem da Hero não mudaram.
 - O palco tem a proporção da imagem mostrada e é recortado pela moldura como um `object-fit: cover`, então a tela usa coordenadas da própria imagem: caixa do vidro do CRT na fonte 1672 × 941 em **x 1157–1473, y 151–405** (no recorte mobile: x 529–845 de 941). O cartucho do console cobre o canto inferior esquerdo do vidro: a tela é recortada ali (`clip-path`).
-- **Ângulo da TV:** o vidro da foto é um quadrilátero (a TV está levemente girada: topo 161 → 151, base 400 → 405). A tela recebe os cantos (`HERO_CRT_GLASS`, input `quad`) e é projetada em perspectiva com `matrix3d` (`screen-quad.ts`), recalculado no resize; canvas, textos e cantos arredondados (`--screen-radius`) seguem o mesmo plano. Ao trocar a imagem de fundo, medir de novo os quatro cantos.
+- **Ângulo da TV:** o vidro da foto é um quadrilátero (a TV está levemente girada: topo 161 → 151, base 400 → 405). A tela recebe os cantos (`HERO_CRT_GLASS`, input `quad`) e é projetada em perspectiva com `matrix3d` (`screen-quad.ts`), recalculado no resize; canvas e textos seguem o mesmo plano. Desde D-080, a tela fica **atrás** da imagem (tubo transparente), e o aro recorta cantos e cartucho, sem `--screen-radius` nem `clip-path` na Hero. Ao trocar a imagem de fundo, medir de novo os quatro cantos e o furo (`docs/21` §8.2 K e §9).
 - A tela 4:3 cobre o vidro (~1,24 : 1) cortando as laterais (área segura, §4.0).
 - Scanlines (CSS): faixas suaves alinhadas às 120 linhas nativas, com densidade de 120/60/40/30 pela largura da tela e pela densidade de pixels, para não formar faixas irregulares (D-079, `docs/21` §8.1). Engine, roteiro e timings intactos.
 - **Carregamento:** chunk próprio (~13,7 KB, ~5,8 KB gzip), só depois do `load`, no idle + 1 s. Antes disso, a tela da foto já mostra o SYSTEM HORIZON.
